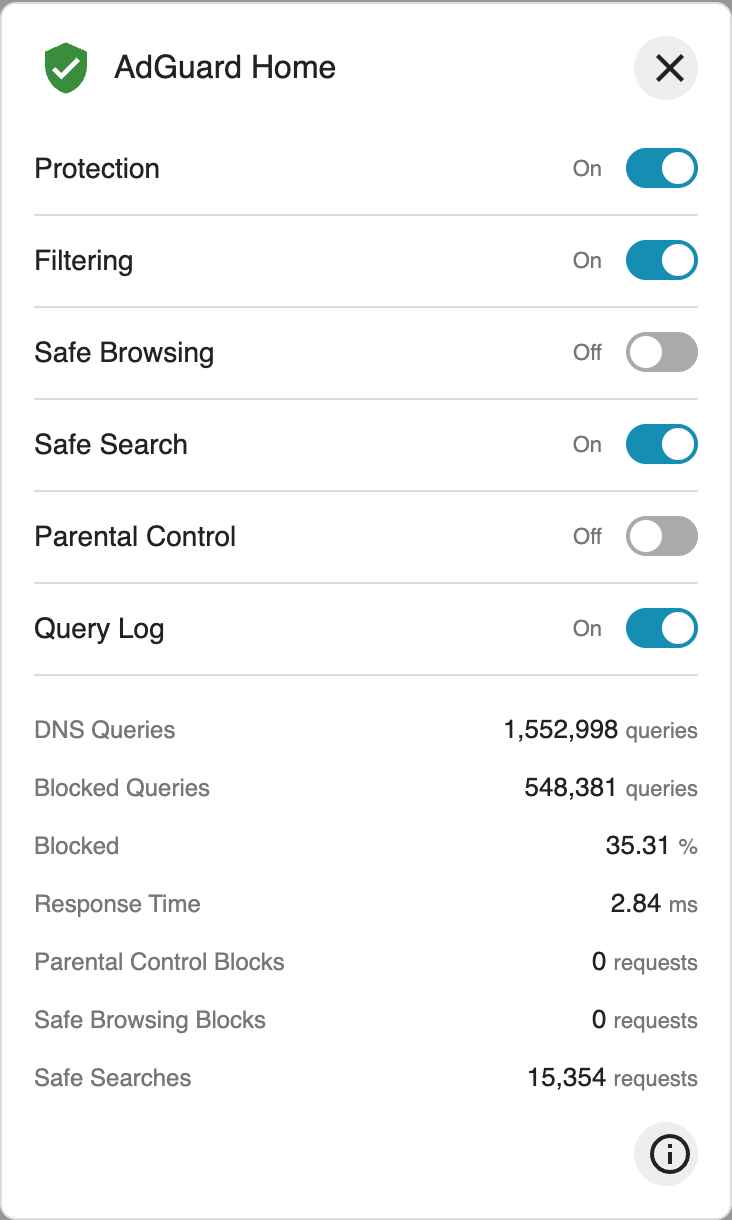
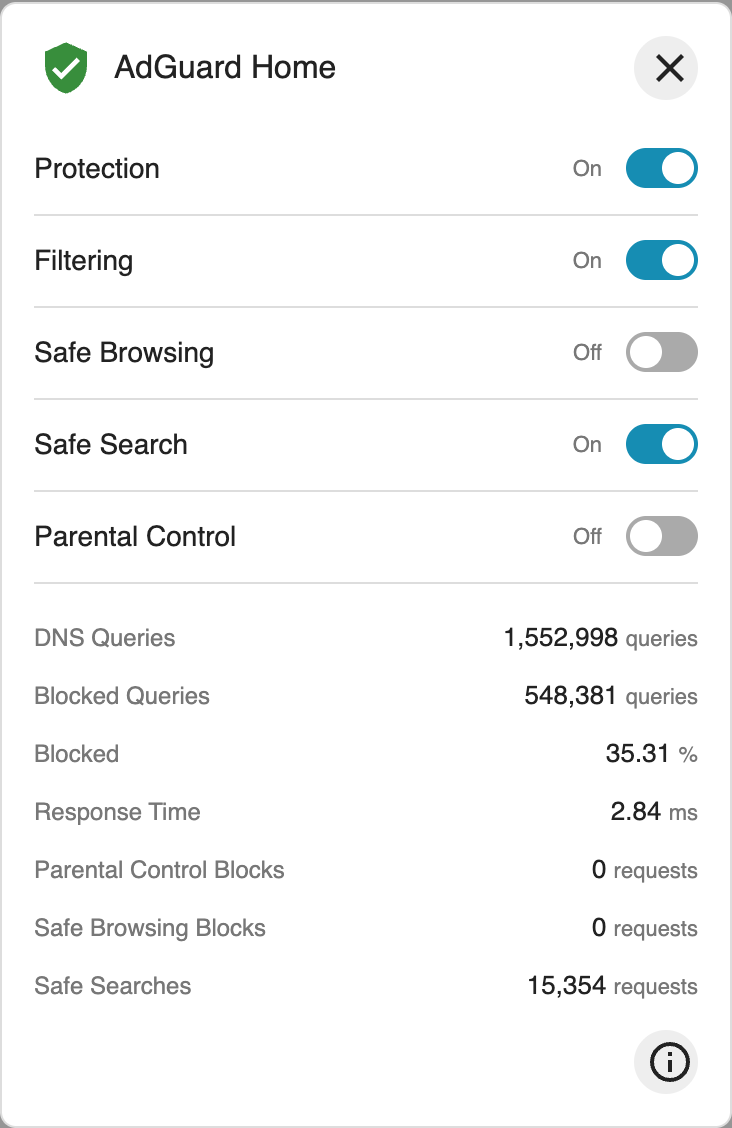
Keep AdGuard controls focused on protection settings

diff --git a/src/cards/adguard-card.js b/src/cards/adguard-card.js
@@ -1,6 +1,6 @@
 export const adguardControls = [
   ["protection", "Protection"], ["filtering", "Filtering"], ["safe_browsing", "Safe Browsing"],
-  ["safe_search", "Safe Search"], ["parental_control", "Parental Control"], ["query_log", "Query Log"]
+  ["safe_search", "Safe Search"], ["parental_control", "Parental Control"]
 ];
 export const adguardMetrics = [
   ["dns_queries", "DNS Queries"], ["dns_queries_blocked", "Blocked Queries"],

diff --git a/README.md b/README.md
@@ -356,7 +356,8 @@ The icon is embedded in the bundle; the old separately hosted SVG is no longer r
 
 One compact device tile with protection status, blocked-query percentage and DNS
 response time. Open it to manage Protection, Filtering, Safe Browsing, Safe
-Search, Parental Control and Query Log, alongside seven DNS statistics.
+Search and Parental Control, alongside seven DNS statistics. Query logging is
+an administrative setting and is not shown among the protection controls.
 Opening the card never changes a setting. Controls use the existing Home
 Assistant AdGuard switch entities; missing or unavailable controls are disabled.
 
